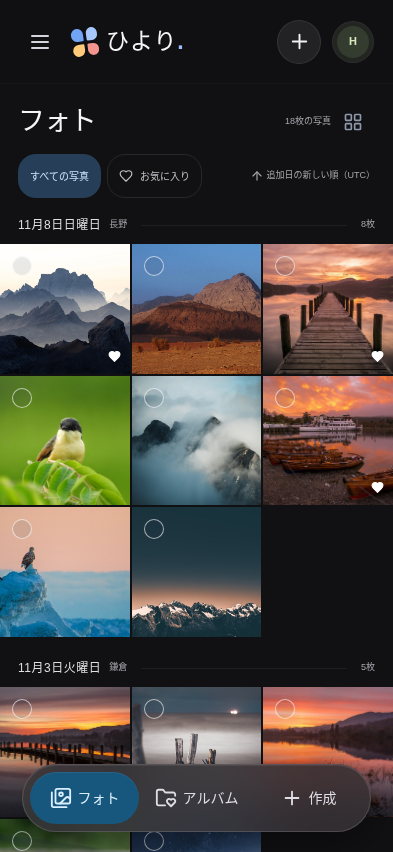
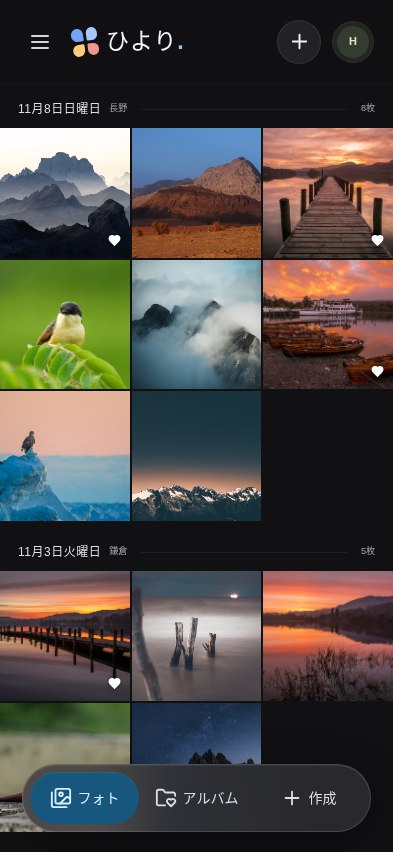
style: remove extra controls above mock photo grid

diff --git a/apps/frontend/src/App.tsx b/apps/frontend/src/App.tsx
@@ -202,37 +202,40 @@ function PhotoApp({
     );
     const visible = base.filter((p) => filter !== 'お気に入り' || p.favorite);
     const dates = [...new Set(visible.map((p) => p.date))].sort().reverse();
+    const minimalPhotos = designPreview && !album && !isTrash && !isFavorite;
     return (
       <>
-        <div className="page-heading">
-          <div>
-            <div className="eyebrow">YOUR SHARED LIBRARY</div>
-            <h1>
-              {album || title}
-              {isFavorite && <Heart className="heading-heart" size={23} />}
-            </h1>
-            <p>
-              {isTrash
-                ? '削除した写真を確認・復元できます'
-                : isFavorite
-                  ? '何度でも見返したい、大切な一枚。'
-                  : album
-                    ? 'ふたりで集めた、とっておきの瞬間。'
-                    : '何気ない毎日も、とっておきの思い出に。'}
-            </p>
+        {!minimalPhotos && (
+          <div className="page-heading">
+            <div>
+              <div className="eyebrow">YOUR SHARED LIBRARY</div>
+              <h1>
+                {album || title}
+                {isFavorite && <Heart className="heading-heart" size={23} />}
+              </h1>
+              <p>
+                {isTrash
+                  ? '削除した写真を確認・復元できます'
+                  : isFavorite
+                    ? '何度でも見返したい、大切な一枚。'
+                    : album
+                      ? 'ふたりで集めた、とっておきの瞬間。'
+                      : '何気ない毎日も、とっておきの思い出に。'}
+              </p>
+            </div>
+            <div className="heading-tools">
+              <span className="photo-count">{base.length}枚の写真</span>
+              <Button
+                variant="ghost"
+                size="icon"
+                aria-label={compact ? '写真を大きく表示' : '写真を小さく表示'}
+                onClick={() => setCompact(!compact)}
+              >
+                {compact ? <Grid2X2 size={20} /> : <LayoutGrid size={20} />}
+              </Button>
+            </div>
           </div>
-          <div className="heading-tools">
-            <span className="photo-count">{base.length}枚の写真</span>
-            <Button
-              variant="ghost"
-              size="icon"
-              aria-label={compact ? '写真を大きく表示' : '写真を小さく表示'}
-              onClick={() => setCompact(!compact)}
-            >
-              {compact ? <Grid2X2 size={20} /> : <LayoutGrid size={20} />}
-            </Button>
-          </div>
-        </div>
+        )}
         {!isTrash && !isFavorite && !album && active.length > 0 && (
           <div className="memories">
             <button
@@ -283,29 +286,31 @@ function PhotoApp({
             </button>
           </div>
         )}
-        <div className="gallery-toolbar">
-          <div className="chip-group">
-            <button
-              className={filter === 'すべて' ? 'chip active' : 'chip'}
-              onClick={() => setFilter('すべて')}
-            >
-              すべての写真
-            </button>
-            {!isTrash && !isFavorite && (
+        {!minimalPhotos && (
+          <div className="gallery-toolbar">
+            <div className="chip-group">
               <button
-                className={filter === 'お気に入り' ? 'chip active' : 'chip'}
-                onClick={() => setFilter('お気に入り')}
+                className={filter === 'すべて' ? 'chip active' : 'chip'}
+                onClick={() => setFilter('すべて')}
               >
-                <Heart size={14} />
-                お気に入り
+                すべての写真
               </button>
-            )}
+              {!isTrash && !isFavorite && (
+                <button
+                  className={filter === 'お気に入り' ? 'chip active' : 'chip'}
+                  onClick={() => setFilter('お気に入り')}
+                >
+                  <Heart size={14} />
+                  お気に入り
+                </button>
+              )}
+            </div>
+            <span className="sort-label">
+              <ArrowUp size={14} />
+              追加日の新しい順（UTC）
+            </span>
           </div>
-          <span className="sort-label">
-            <ArrowUp size={14} />
-            追加日の新しい順（UTC）
-          </span>
-        </div>
+        )}
         {selected.length > 0 && (
           <div className="selection-bar">
             {!isTrash && (

diff --git a/apps/frontend/src/MobileDark.stories.tsx b/apps/frontend/src/MobileDark.stories.tsx
@@ -11,7 +11,7 @@ const meta = {
     docs: {
       description: {
         component:
-          '参考画像をもとにしたUIレビュー案。フォト・アルバム・作成のフローティングナビ。共通Appと既存APIを使用し、通常起動は従来のデザインを維持します。393×852でのレビューを推奨。',
+          '参考画像をもとにしたUIレビュー案。フォト・アルバム・作成のフローティングナビ。フォトは見出し・枚数・表示切替・絞り込み・並び順を省き、日付別の写真をすぐに表示します。共通Appと既存APIを使用し、通常起動は従来のデザインを維持します。393×852でのレビューを推奨。',
       },
     },
   },

diff --git a/apps/frontend/tests/mobile-dark.spec.ts b/apps/frontend/tests/mobile-dark.spec.ts
@@ -12,6 +12,9 @@ test('ダークUIをスマホで操作し、アルバム・作成・詳細を確
     page.getByRole('button', { name: '湖畔の朝を開く', exact: true }),
   ).toBeVisible();
   await expect(page.locator('.app-shell')).toHaveClass(/mobile-dark/);
+  await expect(page.locator('.main-content > .page-heading')).toHaveCount(0);
+  await expect(page.locator('.gallery-toolbar')).toHaveCount(0);
+  await expect(page.locator('.date-heading').first()).toBeVisible();
   expect(
     await page.evaluate(
       () => document.documentElement.scrollWidth <= innerWidth,

diff --git a/docs/mobile-dark-ui-proposal.md b/docs/mobile-dark-ui-proposal.md
@@ -6,7 +6,7 @@
 
 `pnpm storybook` で **デザイン提案 / モバイルダーク / iPhone 16で操作する** を開く。PCでも393×852 CSS pxのiframe内でアプリを操作できる。「フォト」「アルバム」「アルバムの中」「写真詳細」「写真を追加」「写真なし」「読み込み中」「読み込み失敗」の各Storyでは画面・状態を直接確認できる。表示と操作状態の正は [MobileDark.stories.tsx](../apps/frontend/src/MobileDark.stories.tsx)。
 
-1. フォトを開き、3列の写真と追加日ごとの区切りを確認する。表示密度ボタンで4列へ切り替える。
+1. フォトを開き、3列の写真と追加日ごとの区切りを確認する。フォト見出し・総枚数・表示密度切替・絞り込み・並び順のツールバーは表示せず、ヘッダー直下から日付別の写真一覧を表示する（POの追加依頼に対応）。
 2. 下部のアルバムから一覧・中身を開く。作成から新しいアルバムを作る。
 3. 写真を開き、お気に入り、情報、アルバム所属、ダウンロード、削除を確認する。
 4. 上部の＋から既存の写真追加フローを開く。検索バーは最新mainの仕様に従い表示しない。
